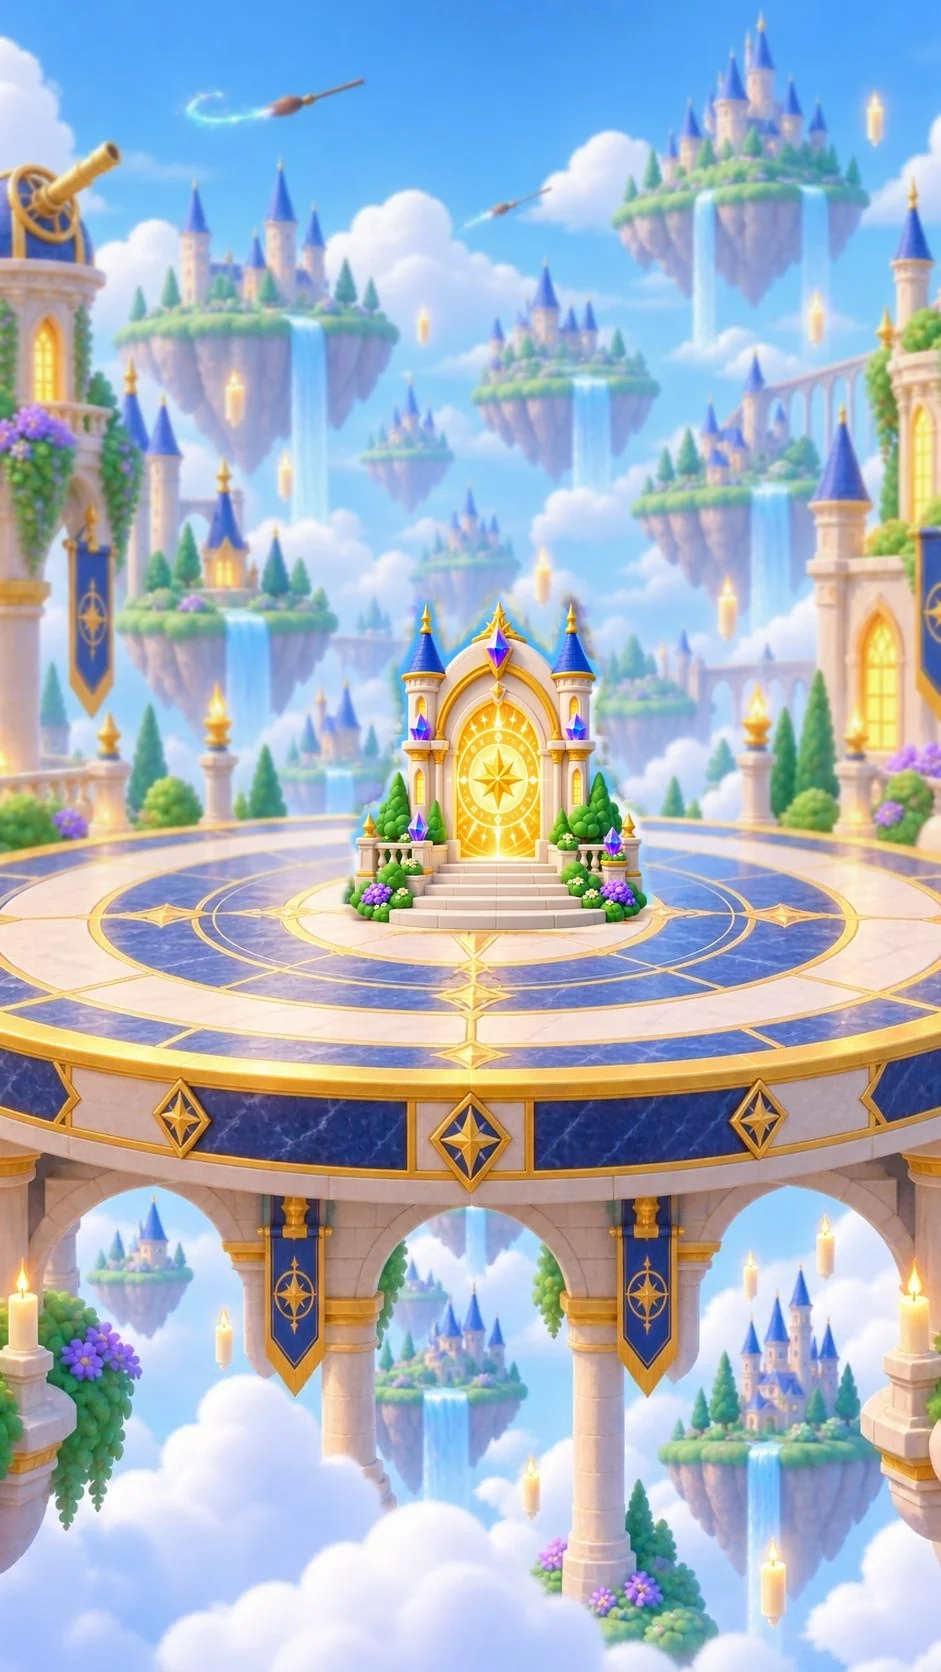
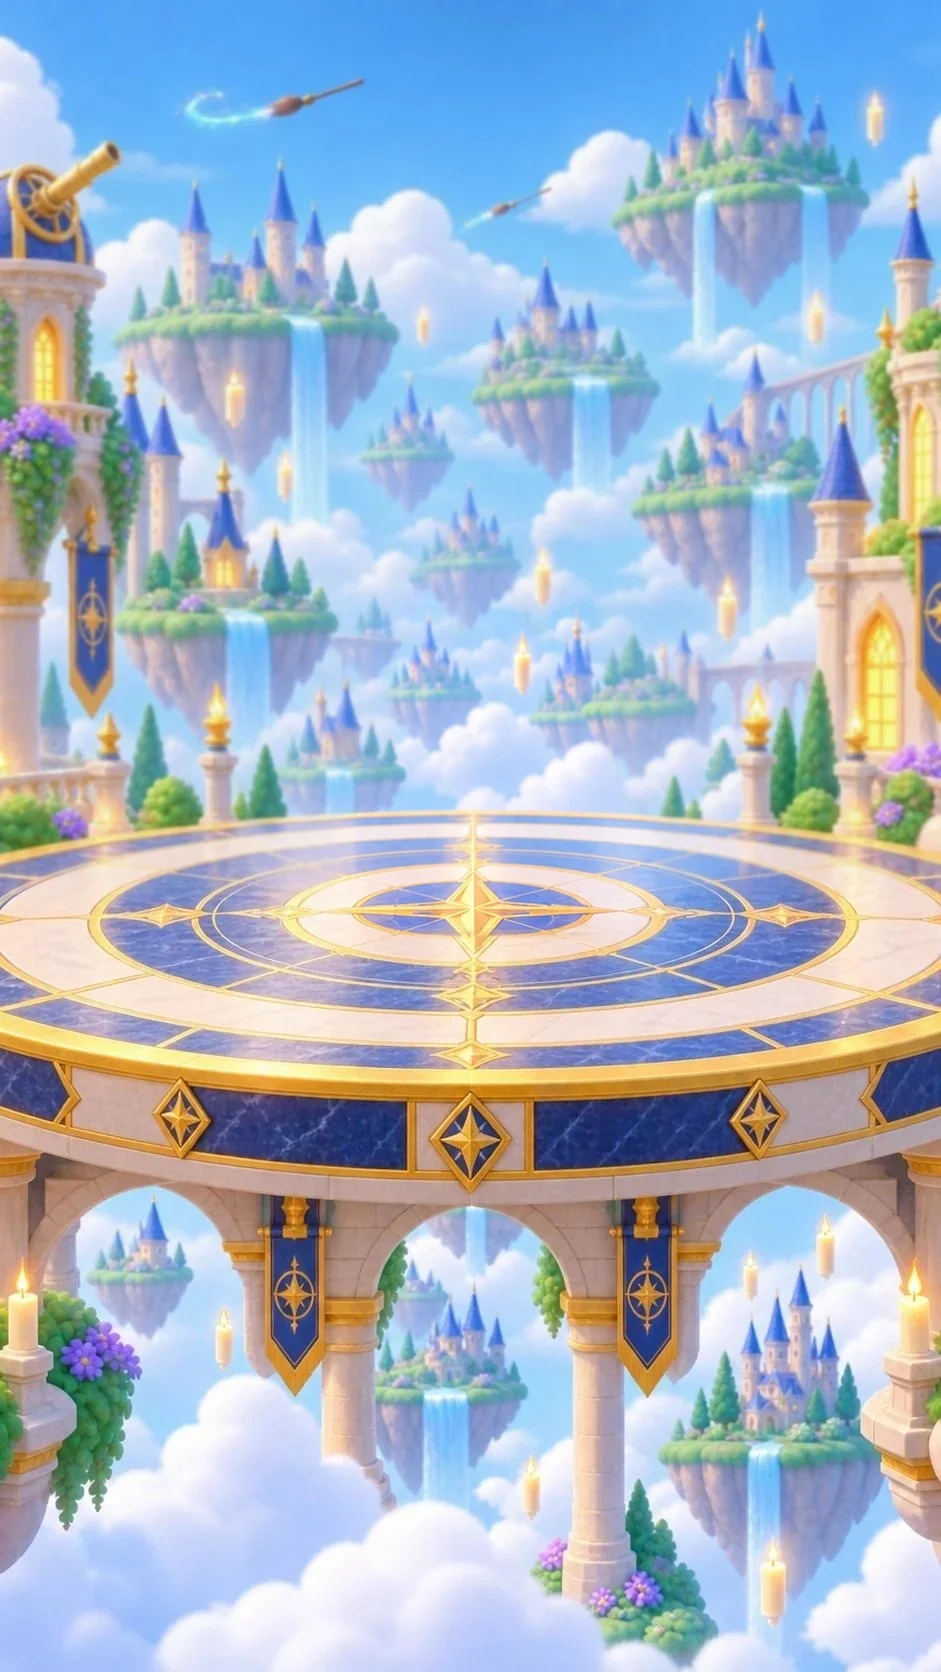
Boss Battle: world gate stands behind the platform + w11 meteor (admin 4622)
- plates: the small baked gate, its stairs and plants erased by one masked GPT edit per plate (fix/bosses/arena/ungate.py)
- front.webp per world = the plate below its measured back rim (rim.py fit, manual on w6/w7), drawn over the gate;
  gate 440 px tall, bottom ~45 px behind the rim (GATE_Y), blur 1.8 px
- w11 hand repainted, meteor flies straight (all 11 bosses now throw their own weapon)

Changed region(s): [[0.3698, 0.3421, 0.7088, 0.5598]]

diff --git a/src/games/BossBattle.tsx b/src/games/BossBattle.tsx
@@ -11,6 +11,18 @@ import w7Weapon from '../assets/games/bosses/w7/weapon.webp'
 import w8Weapon from '../assets/games/bosses/w8/weapon.webp'
 import w9Weapon from '../assets/games/bosses/w9/weapon.webp'
 import w10Weapon from '../assets/games/bosses/w10/weapon.webp'
+import w11Weapon from '../assets/games/bosses/w11/weapon.webp'
+import w1Front from '../assets/games/bosses/w1/front.webp'
+import w2Front from '../assets/games/bosses/w2/front.webp'
+import w3Front from '../assets/games/bosses/w3/front.webp'
+import w4Front from '../assets/games/bosses/w4/front.webp'
+import w5Front from '../assets/games/bosses/w5/front.webp'
+import w6Front from '../assets/games/bosses/w6/front.webp'
+import w7Front from '../assets/games/bosses/w7/front.webp'
+import w8Front from '../assets/games/bosses/w8/front.webp'
+import w9Front from '../assets/games/bosses/w9/front.webp'
+import w10Front from '../assets/games/bosses/w10/front.webp'
+import w11Front from '../assets/games/bosses/w11/front.webp'
 import w2Weapon from '../assets/games/bosses/w2/weapon.webp'
 import w3Weapon from '../assets/games/bosses/w3/weapon.webp'
 import { BossFx, type Weapon } from './bossFx'
@@ -170,6 +182,8 @@ const WEAPONS: Record<number, BossWeapon> = {
   8: { src: w9Weapon, at: [0.215, 0.43], w: 0.2457, anchor: [0.5093, 0.4899], motion: 'tumble', col: '#4fe6d8' },
   // w10 arcane orb (pointing hand repainted by a masked GPT edit), flies straight
   9: { src: w10Weapon, at: [0.2, 0.525], w: 0.2229, anchor: [0.4964, 0.4978], motion: 'straight', col: '#b45cff' },
+  // w11 flaming meteor (hand repainted by a masked GPT edit), flies straight
+  10: { src: w11Weapon, at: [0.16, 0.536], w: 0.2029, anchor: [0.4992, 0.4982], motion: 'straight', col: '#ffb347' },
 }
 type Boss = { name: string; frames: Record<GolemState, string>; img: BossImg; gate?: string }   // plate: the world's own arena (admin 4565)
 const BOSSES: Record<number, Boss> = {
@@ -216,6 +230,10 @@ const ARENAS: Record<number, { plate: string; feet: [number, number] }> = {
 // attack-frame offset (plate px, + = away from the hero) so the projectile drawn in each attack sprite stops short of the
 // hero's wand (admin 4585 attack QA); 0-based world. w2 throws its weapon separately, so its frame needs none
 const ATTACK_DX: Record<number, number> = {}   // tried 10-09, crowded the screen edges; the weapon pass (projectile flown in JS) fixes the overlap instead
+// admin 4622: the platform part of each plate (front.webp, cut along its back rim) is drawn above the gate, so the gate
+// stands behind the platform; gate bottom y per world = rim y at the centre + ~45 px hidden behind the rim
+const FRONTS: Record<number, string> = { 0: w1Front, 1: w2Front, 2: w3Front, 3: w4Front, 4: w5Front, 5: w6Front, 6: w7Front, 7: w8Front, 8: w9Front, 9: w10Front, 10: w11Front }
+const GATE_Y: Record<number, number> = { 0: 956, 1: 949, 2: 904, 3: 916, 4: 926, 5: 851, 6: 950, 7: 905, 8: 917, 9: 860, 10: 910 }
 const DEFAULT_BOSS: Boss = { name: 'Grammar Boss', img: GOLEM_IMG, frames: GOLEM }
 const bossFor = (world?: number): Boss => {
   const q = typeof location !== 'undefined' ? new URLSearchParams(location.search).get('bossw') : null   // ?bossw=2 (1-based) for previews
@@ -224,7 +242,7 @@ const bossFor = (world?: number): Boss => {
 }
 // the world gate behind the fighters: on the back of the arena between them, slightly soft and dimmed so the fight reads
 let fireN = 0
-const GATE_AT = { x: 498, y: 930, h: 455 }   // admin 4615: stairless gate (cut at the threshold), ~1.75x the old arch, standing on the platform back edge; covers the baked small gate + stairs
+const GATE_AT = { x: 498, y: 930, h: 440 }   // admin 4622: ~1.5x the old arch visible + ~45 px hidden behind the platform rim (bottom y per world: GATE_Y)
 // 3D hero (battle page built from the live wardrobe: live face warp; el=10 camera, yaw 0 = the 2D hero's 3/4 view; 5:7 frame):
 // measured figure 0.231..0.781, foot x 0.486, right hand at the cast release 0.529,0.629
 const H3D = { top: 0.231, bot: 0.781, foot: 0.486, hand: [0.529, 0.629] }
@@ -267,6 +285,7 @@ export function BossBattle({ items, onFinish, onAnswer, world }: MiniGameProps) 
     const w = q ? +q - 1 : world
     return w != null ? WEAPONS[w] ?? null : null
   }, [world])
+  const wsel = useMemo(() => { const q = typeof location !== 'undefined' ? new URLSearchParams(location.search).get('bossw') : null; return q ? +q - 1 : world }, [world])
   const attackDx = useMemo(() => {
     const q = typeof location !== 'undefined' ? new URLSearchParams(location.search).get('bossw') : null
     const w = q ? +q - 1 : world
@@ -575,7 +594,8 @@ export function BossBattle({ items, onFinish, onAnswer, world }: MiniGameProps) 
       <div className="bb2-scene" ref={sceneEl}>
         <img className="gs-plate" src={arena?.plate ?? plate} alt="" draggable={false} />
         {boss.gate && <img className="bb2-gate" src={boss.gate} alt="" draggable={false}
-          style={{ left: `${(GATE_AT.x / PW) * 100}%`, transform: 'translateX(-50%)', top: `${((GATE_AT.y - GATE_AT.h) / PH) * 100}%`, height: `${(GATE_AT.h / PH) * 100}%` }} />}
+          style={{ left: `${(GATE_AT.x / PW) * 100}%`, transform: 'translateX(-50%)', top: `${(((wsel != null && GATE_Y[wsel]) || GATE_AT.y) - GATE_AT.h) / PH * 100}%`, height: `${(GATE_AT.h / PH) * 100}%` }} />}
+        {boss.gate && wsel != null && FRONTS[wsel] && <img className="gs-plate bb2-front" src={FRONTS[wsel]} alt="" draggable={false} />}
         <i className="bb2-shadow" style={shadowStyle(BOSS_AT, BOSS_BOX.w * 0.78)} />
         <i className="bb2-shadow" style={shadowStyle(HERO_AT, HERO_BOX.w * 0.9)} />
         <div className="bb2-sprite bb2-golem" ref={golemEl} style={pct(BOSS_BOX)}>

diff --git a/src/games/bossbattle.css b/src/games/bossbattle.css
@@ -119,4 +119,5 @@
 .bb2-hero3d { transition: opacity .25s ease; }
 
 /* the world's gate behind the fight (admin 4477): on the back of the arena, soft and dimmed */
-.bb2-gate { position: absolute; z-index: 1; width: auto; pointer-events: none; filter: blur(1.2px) brightness(.88) saturate(.9); opacity: 1; }   /* opaque: it covers the small gate baked into the plate (admin 4615) */
+.bb2-gate { position: absolute; z-index: 1; width: auto; pointer-events: none; filter: blur(1.8px) brightness(.88) saturate(.9); opacity: 1; }   /* behind the platform (admin 4622): blur close to the background haze */
+.bb2-scene > .bb2-front { z-index: 1; pointer-events: none; }   /* the platform part of the plate, drawn over the gate base */
